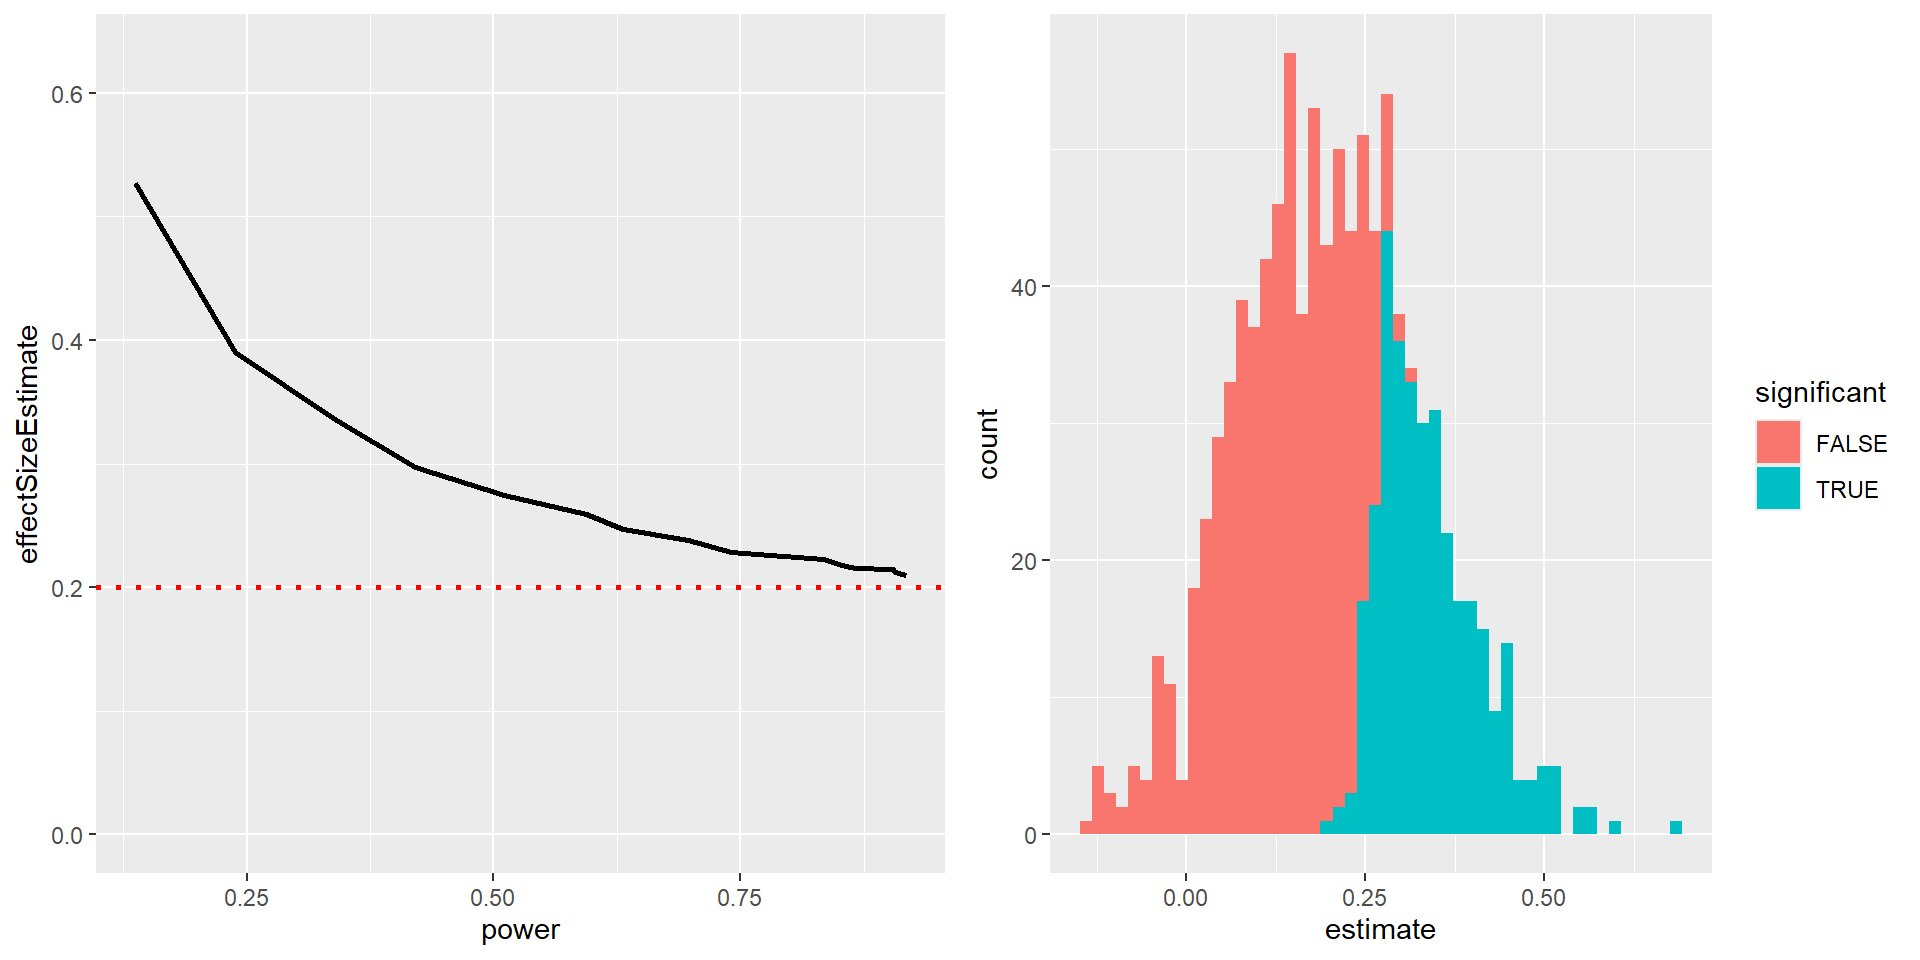
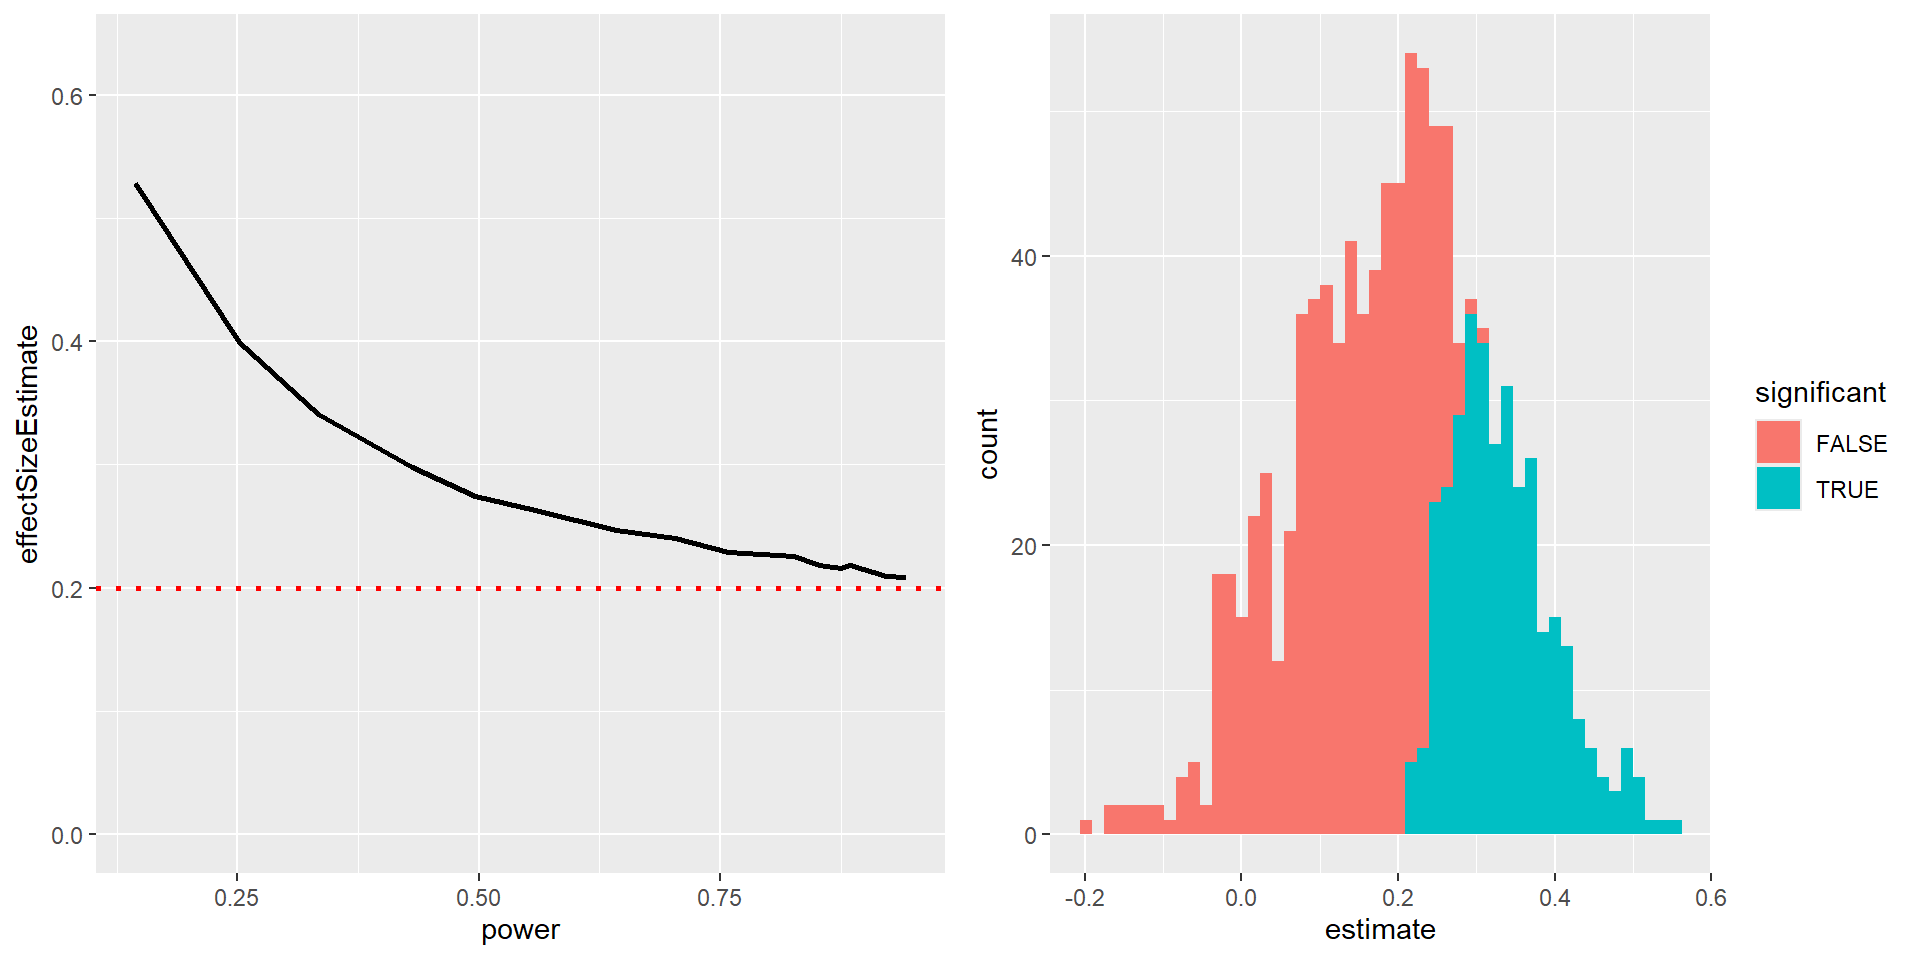
Built site for gh-pages

diff --git a/W6_Sampling.html b/W6_Sampling.html
@@ -288,24 +288,24 @@ Dr.&nbsp;Lea Hildebrandt
 </thead>
 <tbody>
 <tr class="odd">
-<td style="text-align: right;">167.136</td>
-<td style="text-align: right;">9.613846</td>
+<td style="text-align: right;">168.984</td>
+<td style="text-align: right;">9.009844</td>
 </tr>
 <tr class="even">
-<td style="text-align: right;">169.106</td>
-<td style="text-align: right;">8.074637</td>
+<td style="text-align: right;">169.564</td>
+<td style="text-align: right;">9.112422</td>
 </tr>
 <tr class="odd">
-<td style="text-align: right;">167.296</td>
-<td style="text-align: right;">10.999109</td>
+<td style="text-align: right;">169.950</td>
+<td style="text-align: right;">11.280003</td>
 </tr>
 <tr class="even">
-<td style="text-align: right;">169.136</td>
-<td style="text-align: right;">9.827632</td>
+<td style="text-align: right;">164.998</td>
+<td style="text-align: right;">7.674859</td>
 </tr>
 <tr class="odd">
-<td style="text-align: right;">169.734</td>
-<td style="text-align: right;">8.779420</td>
+<td style="text-align: right;">169.094</td>
+<td style="text-align: right;">10.844625</td>
 </tr>
 </tbody>
 </table>
@@ -651,14 +651,14 @@ This value is the amount of time that we should allow - <em>given our assumption
 <span id="cb10-14"><a></a><span class="fu">print</span>(cutoff)</span></code><button title="Copy to Clipboard" class="code-copy-button"><i class="bi"></i></button></pre></div>
 <div class="cell-output cell-output-stdout">
 <pre><code>     99% 
-8.871924 </code></pre>
+8.832323 </code></pre>
 </div>
 </div>
 </section>
 <section id="using-monte-carlo-simulations-4" class="slide level2">
 <h2>Using Monte Carlo Simulations 4</h2>
 
-<img data-src="W6_Sampling_files/figure-revealjs/unnamed-chunk-14-1.png" width="960" class="r-stretch"><p>This shows that the 99th percentile of the finishing time distribution falls at 8.8883036 minutes, meaning that if we were to give that much time for the quiz, then we expect that in 99% of quizzes, every student would finish.</p>
+<img data-src="W6_Sampling_files/figure-revealjs/unnamed-chunk-14-1.png" width="960" class="r-stretch"><p>This shows that the 99th percentile of the finishing time distribution falls at 8.8499116 minutes, meaning that if we were to give that much time for the quiz, then we expect that in 99% of quizzes, every student would finish.</p>
 <aside class="notes">
 <p>Assumptions matter, otherwise results wrong! (We assumed: normal dist w/ particular mean and SD). Here assumptions certainly wrong –&gt; elapsed time not normal</p>
 <style type="text/css">
@@ -714,11 +714,11 @@ This value is the amount of time that we should allow - <em>given our assumption
 <span id="cb12-21"><a></a></span>
 <span id="cb12-22"><a></a>SEM_standard</span></code><button title="Copy to Clipboard" class="code-copy-button"><i class="bi"></i></button></pre></div>
 <div class="cell-output cell-output-stdout">
-<pre><code>[1] 2.241756</code></pre>
+<pre><code>[1] 2.23036</code></pre>
 </div>
 <div class="sourceCode cell-code" id="cb14"><pre class="sourceCode numberSource r number-lines code-with-copy"><code class="sourceCode r"><span id="cb14-1"><a></a>SEM_bootstrap</span></code><button title="Copy to Clipboard" class="code-copy-button"><i class="bi"></i></button></pre></div>
 <div class="cell-output cell-output-stdout">
-<pre><code>[1] 2.279174</code></pre>
+<pre><code>[1] 2.177307</code></pre>
 </div>
 </div>
 </div><div class="column">
@@ -799,7 +799,7 @@ Model-based procedures (like most statistical tests we will cover in this class)
 </div>
 <div class="sourceCode cell-code" id="cb20"><pre class="sourceCode numberSource r number-lines code-with-copy"><code class="sourceCode r"><span id="cb20-1"><a></a><span class="fu">sd</span>(mean_bootstrap_20)</span></code><button title="Copy to Clipboard" class="code-copy-button"><i class="bi"></i></button></pre></div>
 <div class="cell-output cell-output-stdout">
-<pre><code>[1] 0.5073489</code></pre>
+<pre><code>[1] 0.4476932</code></pre>
 </div>
 </div>
 <p>We can conclude that the SEM is smaller with a larger sample size, which means we can be more certain about our estimate! (We already knew this from the <span class="math inline">\(\sqrt{n}\)</span> in the denominator of the SE formular but it’s nice to see it confirmed.)</p>

diff --git a/W5_Probability.html b/W5_Probability.html
@@ -740,17 +740,17 @@ div.cell-output-stdout {
 <div class="sourceCode cell-code" id="cb1"><pre class="sourceCode numberSource r number-lines code-with-copy"><code class="sourceCode r"><span id="cb1-1"><a></a><span class="co">#1</span></span>
 <span id="cb1-2"><a></a><span class="fu">runif</span>(<span class="at">n=</span><span class="dv">1</span>) <span class="co">#default parameters are already set to min=0 and max=1</span></span></code><button title="Copy to Clipboard" class="code-copy-button"><i class="bi"></i></button></pre></div>
 <div class="cell-output cell-output-stdout">
-<pre><code>[1] 0.9741331</code></pre>
+<pre><code>[1] 0.929998</code></pre>
 </div>
 <div class="sourceCode cell-code" id="cb3"><pre class="sourceCode numberSource r number-lines code-with-copy"><code class="sourceCode r"><span id="cb3-1"><a></a><span class="co">#2</span></span>
 <span id="cb3-2"><a></a><span class="fu">runif</span>(<span class="at">n=</span><span class="dv">100</span>, <span class="at">max=</span><span class="dv">10</span>) <span class="sc">%&gt;%</span> <span class="fu">mean</span>()</span></code><button title="Copy to Clipboard" class="code-copy-button"><i class="bi"></i></button></pre></div>
 <div class="cell-output cell-output-stdout">
-<pre><code>[1] 5.213258</code></pre>
+<pre><code>[1] 5.084726</code></pre>
 </div>
 <div class="sourceCode cell-code" id="cb5"><pre class="sourceCode numberSource r number-lines code-with-copy"><code class="sourceCode r"><span id="cb5-1"><a></a><span class="co">#3</span></span>
 <span id="cb5-2"><a></a><span class="fu">sample</span>(<span class="dv">1</span><span class="sc">:</span><span class="dv">10</span>, <span class="at">size=</span><span class="dv">50</span>, <span class="at">replace=</span>T) <span class="sc">%&gt;%</span> <span class="fu">mean</span>()</span></code><button title="Copy to Clipboard" class="code-copy-button"><i class="bi"></i></button></pre></div>
 <div class="cell-output cell-output-stdout">
-<pre><code>[1] 5.9</code></pre>
+<pre><code>[1] 5.74</code></pre>
 </div>
 <div class="sourceCode cell-code" id="cb7"><pre class="sourceCode numberSource r number-lines code-with-copy"><code class="sourceCode r"><span id="cb7-1"><a></a><span class="co">#4</span></span>
 <span id="cb7-2"><a></a><span class="fu">sample</span>(<span class="fu">c</span>(<span class="st">"Anna"</span>, <span class="st">"Barbara"</span>, <span class="st">"Christina"</span>, <span class="st">"Dana"</span>), <span class="at">size=</span><span class="dv">1</span>)</span></code><button title="Copy to Clipboard" class="code-copy-button"><i class="bi"></i></button></pre></div>
@@ -760,7 +760,7 @@ div.cell-output-stdout {
 <div class="sourceCode cell-code" id="cb9"><pre class="sourceCode numberSource r number-lines code-with-copy"><code class="sourceCode r"><span id="cb9-1"><a></a><span class="co">#5</span></span>
 <span id="cb9-2"><a></a><span class="fu">sample</span>(<span class="fu">c</span>(<span class="st">"Anna"</span>, <span class="st">"Barbara"</span>, <span class="st">"Christina"</span>, <span class="st">"Dana"</span>)) <span class="co">#by default, sample draws all elements in random order</span></span></code><button title="Copy to Clipboard" class="code-copy-button"><i class="bi"></i></button></pre></div>
 <div class="cell-output cell-output-stdout">
-<pre><code>[1] "Christina" "Barbara"   "Dana"      "Anna"     </code></pre>
+<pre><code>[1] "Anna"      "Christina" "Dana"      "Barbara"  </code></pre>
 </div>
 </div>
 </div>

diff --git a/W1_Intro.html b/W1_Intro.html
@@ -350,16 +350,14 @@ Today, I'm feeling...
 <p>The up-to-date version can be found at <a href="https://hillea.github.io/biostats/" class="uri">https://hillea.github.io/biostats/</a>.</p>
 <table class="caption-top">
 <colgroup>
-<col style="width: 20%">
-<col style="width: 20%">
-<col style="width: 20%">
-<col style="width: 20%">
-<col style="width: 20%">
+<col style="width: 25%">
+<col style="width: 25%">
+<col style="width: 25%">
+<col style="width: 25%">
 </colgroup>
 <thead>
 <tr class="header">
 <th>Session</th>
-<th>Date</th>
 <th>Topic</th>
 <th>Reading</th>
 <th>Project Deadlines</th>
@@ -368,118 +366,101 @@ Today, I'm feeling...
 <tbody>
 <tr class="odd">
 <td></td>
-<td>14.10.</td>
 <td><em>No class</em></td>
 <td></td>
 <td>Read chapters and install software</td>
 </tr>
 <tr class="even">
 <td>01</td>
-<td>21.10.</td>
 <td>General &amp; R Intro</td>
 <td>ST21: 1-3, QF: 1-3</td>
 <td>R &amp; RStudio installed</td>
 </tr>
 <tr class="odd">
 <td>02</td>
-<td>28.10.</td>
 <td>Models</td>
 <td>ST21: 4, QF: 4-6</td>
 <td></td>
 </tr>
 <tr class="even">
 <td>03</td>
-<td>04.11.</td>
 <td>Data Wrangling</td>
 <td>ST21: 4, QF: 4-6</td>
 <td></td>
 </tr>
 <tr class="odd">
 <td>04</td>
-<td>11.11.</td>
 <td>Data Visualization</td>
 <td>QF: 7</td>
 <td></td>
 </tr>
 <tr class="even">
 <td>05</td>
-<td>18.11.</td>
 <td>Probability</td>
 <td>ST21: 7-8, QF: 8</td>
 <td>Dataset</td>
 </tr>
 <tr class="odd">
 <td>06</td>
-<td>25.11.</td>
 <td>Sampling</td>
 <td>ST21: 7-8, QF: 8</td>
 <td></td>
 </tr>
 <tr class="even">
 <td>07</td>
-<td>02.12.</td>
 <td>Hypothesis Testing</td>
 <td>ST21: 9-10</td>
 <td></td>
 </tr>
 <tr class="odd">
 <td>08</td>
-<td>09.12.</td>
 <td>Comparing Means &amp; Categories</td>
 <td>ST21: 12, 15</td>
 <td>Research Question &amp; Hypotheses</td>
 </tr>
 <tr class="even">
 <td>09</td>
-<td>16.12.</td>
 <td>Exercises (t-Tests, Chi²)</td>
 <td>ST21: 12, 15</td>
 <td></td>
 </tr>
 <tr class="odd">
 <td>10</td>
-<td>23.12.</td>
 <td>(General) Linear Models</td>
 <td>ST21: 12-13</td>
 <td>First Analysis Ideas</td>
 </tr>
 <tr class="even">
 <td></td>
-<td>30.12. &amp; 06.01.</td>
 <td><em>Holidays</em></td>
 <td></td>
 <td></td>
 </tr>
 <tr class="odd">
 <td>11</td>
-<td>13.01.</td>
 <td>Exercises (GLM)</td>
 <td>ST21: 12-13</td>
 <td></td>
 </tr>
 <tr class="even">
 <td>12</td>
-<td>20.01.</td>
 <td>Linear Mixed Models</td>
 <td>ST21: 14</td>
 <td>Analysis (with R scripts)</td>
 </tr>
 <tr class="odd">
 <td>13</td>
-<td>27.01.</td>
 <td>R Markdown for Reports</td>
 <td></td>
 <td></td>
 </tr>
 <tr class="even">
 <td>14</td>
-<td>03.02.</td>
 <td>Troubleshooting Your Report</td>
 <td></td>
 <td>Send Questions via Email</td>
 </tr>
 <tr class="odd">
-<td></td>
 <td></td>
 <td><del>Reproducible Research</del></td>
 <td><del>ST21: 18</del></td>

diff --git a/test.html b/test.html
@@ -7,7 +7,7 @@
 <meta name="viewport" content="width=device-width, initial-scale=1.0, user-scalable=yes">
 
 <meta name="author" content="Lea Hildebrandt">
-<meta name="dcterms.date" content="2026-09-29">
+<meta name="dcterms.date" content="2026-10-20">
 
 <title>Biostats Report – Biostatistics</title>
 <style>
@@ -262,7 +262,7 @@ pre > code.sourceCode > span > a:first-child::before { text-decoration: underlin
     <div>
     <div class="quarto-title-meta-heading">Published</div>
     <div class="quarto-title-meta-contents">
-      <p class="date">September 29, 2026</p>
+      <p class="date">October 20, 2026</p>
     </div>
   </div>
   

diff --git a/W13_RMarkdown.html b/W13_RMarkdown.html
@@ -375,7 +375,7 @@ div.cell-output-stdout {
 <span id="cb6-2"><a></a>data = tibble(rt = rnorm(n=100, mean=.5, sd=.2))</span>
 <span id="cb6-3"><a></a>```</span>
 <span id="cb6-4"><a></a>We observed an average reaction time of `r data %&gt;% pull(rt) %&gt;% mean() %&gt;% signif(digits=3)` seconds.</span></code><button title="Copy to Clipboard" class="code-copy-button"><i class="bi"></i></button></pre></div>
-<p>We observed an average reaction time of 0.512 seconds.</p>
+<p>We observed an average reaction time of 0.476 seconds.</p>
 <ol start="3" type="1">
 <li>Knit the document and open the output with a double click.</li>
 </ol>

diff --git a/W3_DataWranglingR.html b/W3_DataWranglingR.html
@@ -899,16 +899,16 @@ Also, there are slight differences between <code>&lt;-</code> and <code>=</code>
 <pre><code># A tibble: 10 × 2
     year decade
    &lt;dbl&gt;  &lt;dbl&gt;
- 1  1880   1880
- 2  1884   1880
- 3  1885   1880
- 4  1888   1880
- 5  1901   1900
- 6  1914   1910
- 7  1924   1920
- 8  1935   1930
- 9  1980   1980
-10  2013   2010</code></pre>
+ 1  1902   1900
+ 2  1923   1920
+ 3  1932   1930
+ 4  1946   1940
+ 5  1962   1960
+ 6  1984   1980
+ 7  1985   1980
+ 8  2001   2000
+ 9  2002   2000
+10  2008   2000</code></pre>
 </div>
 </div>
 </div>
